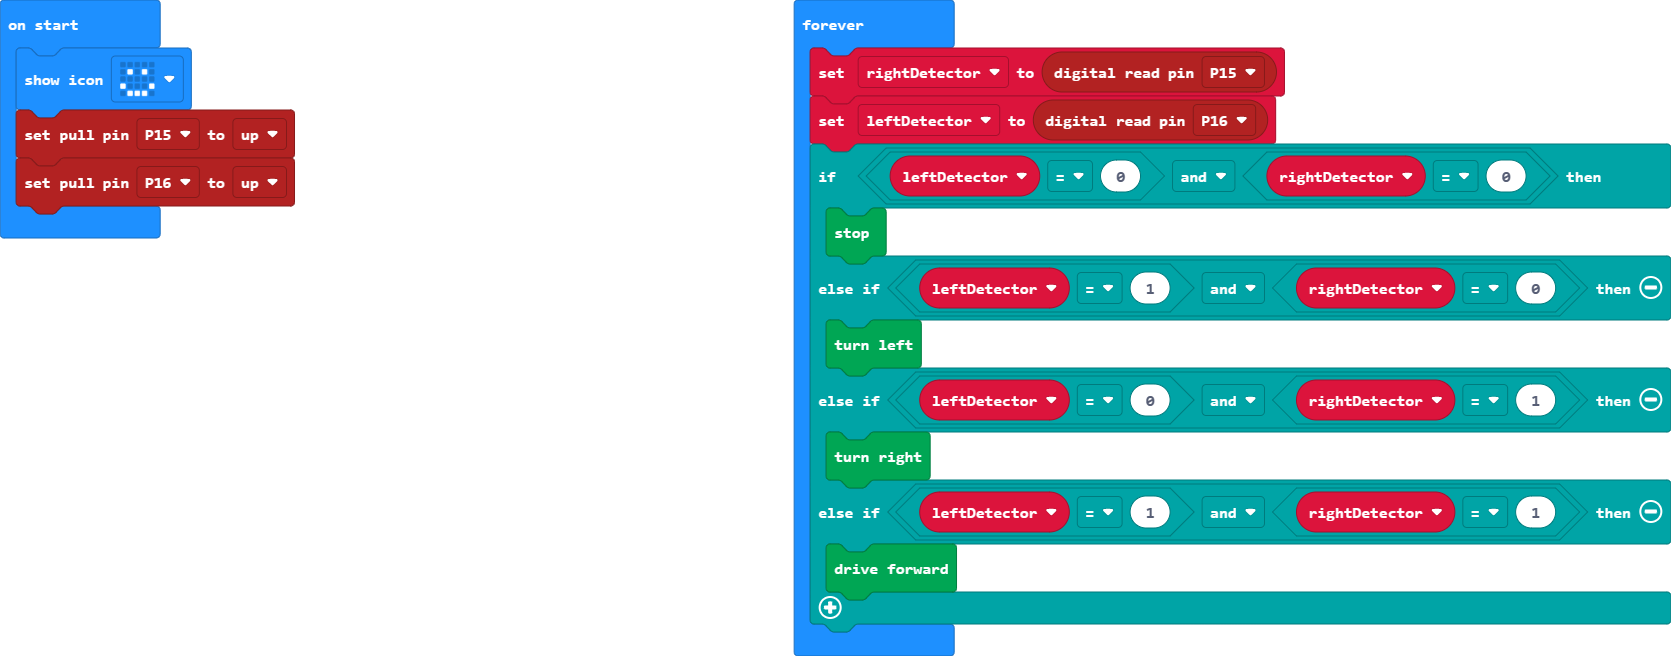
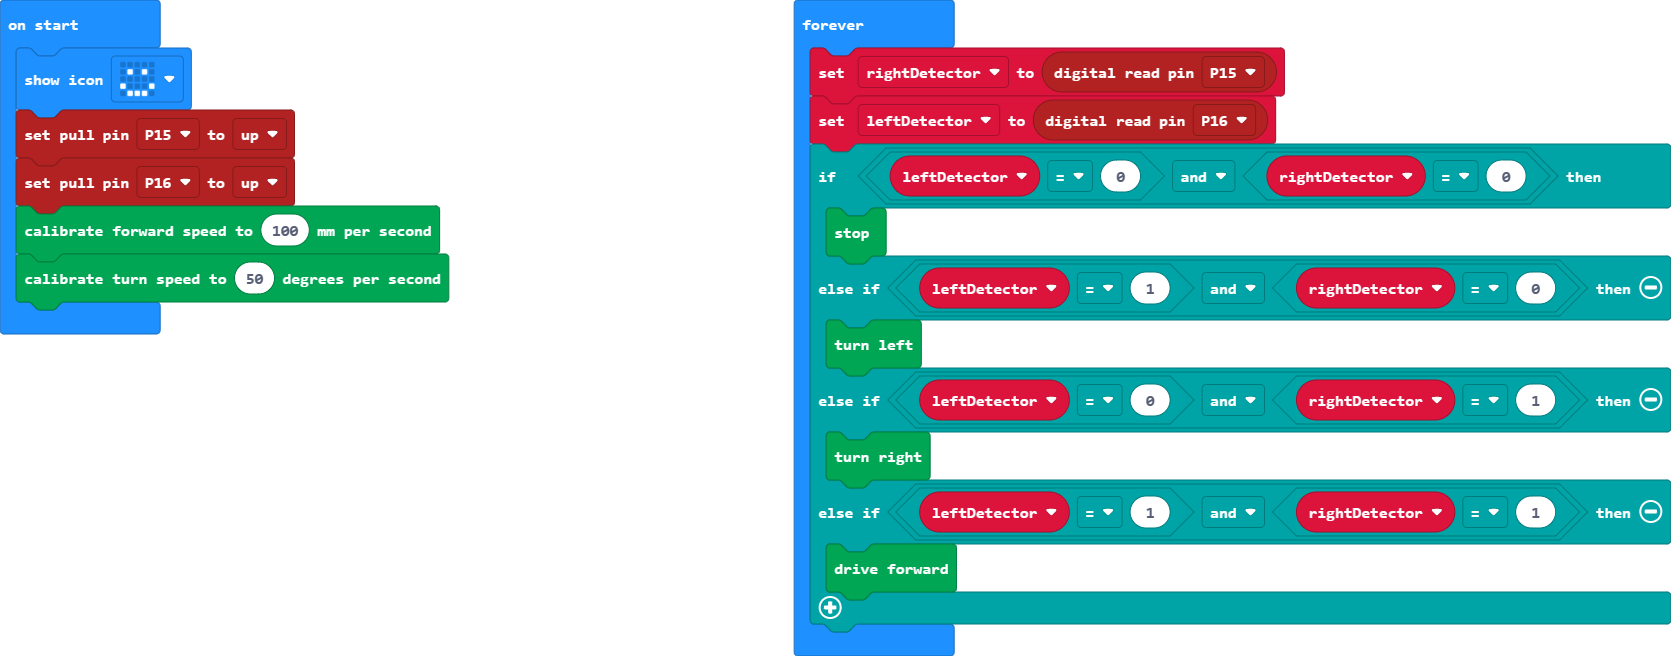
Update main.blocks, main.ts

Changed region(s): [[0.0, 0.3049, 0.2801, 0.5183]]

diff --git a/main.ts b/main.ts
@@ -6,6 +6,8 @@ let rightDetector = 0
 basic.showIcon(IconNames.Happy)
 pins.setPull(DigitalPin.P15, PinPullMode.PullUp)
 pins.setPull(DigitalPin.P16, PinPullMode.PullUp)
+kitronik_servo_lite.setDistancePerSecond(100)
+kitronik_servo_lite.setDegreesPerSecond(50)
 basic.forever(function () {
     rightDetector = pins.digitalReadPin(DigitalPin.P15)
     leftDetector = pins.digitalReadPin(DigitalPin.P16)
